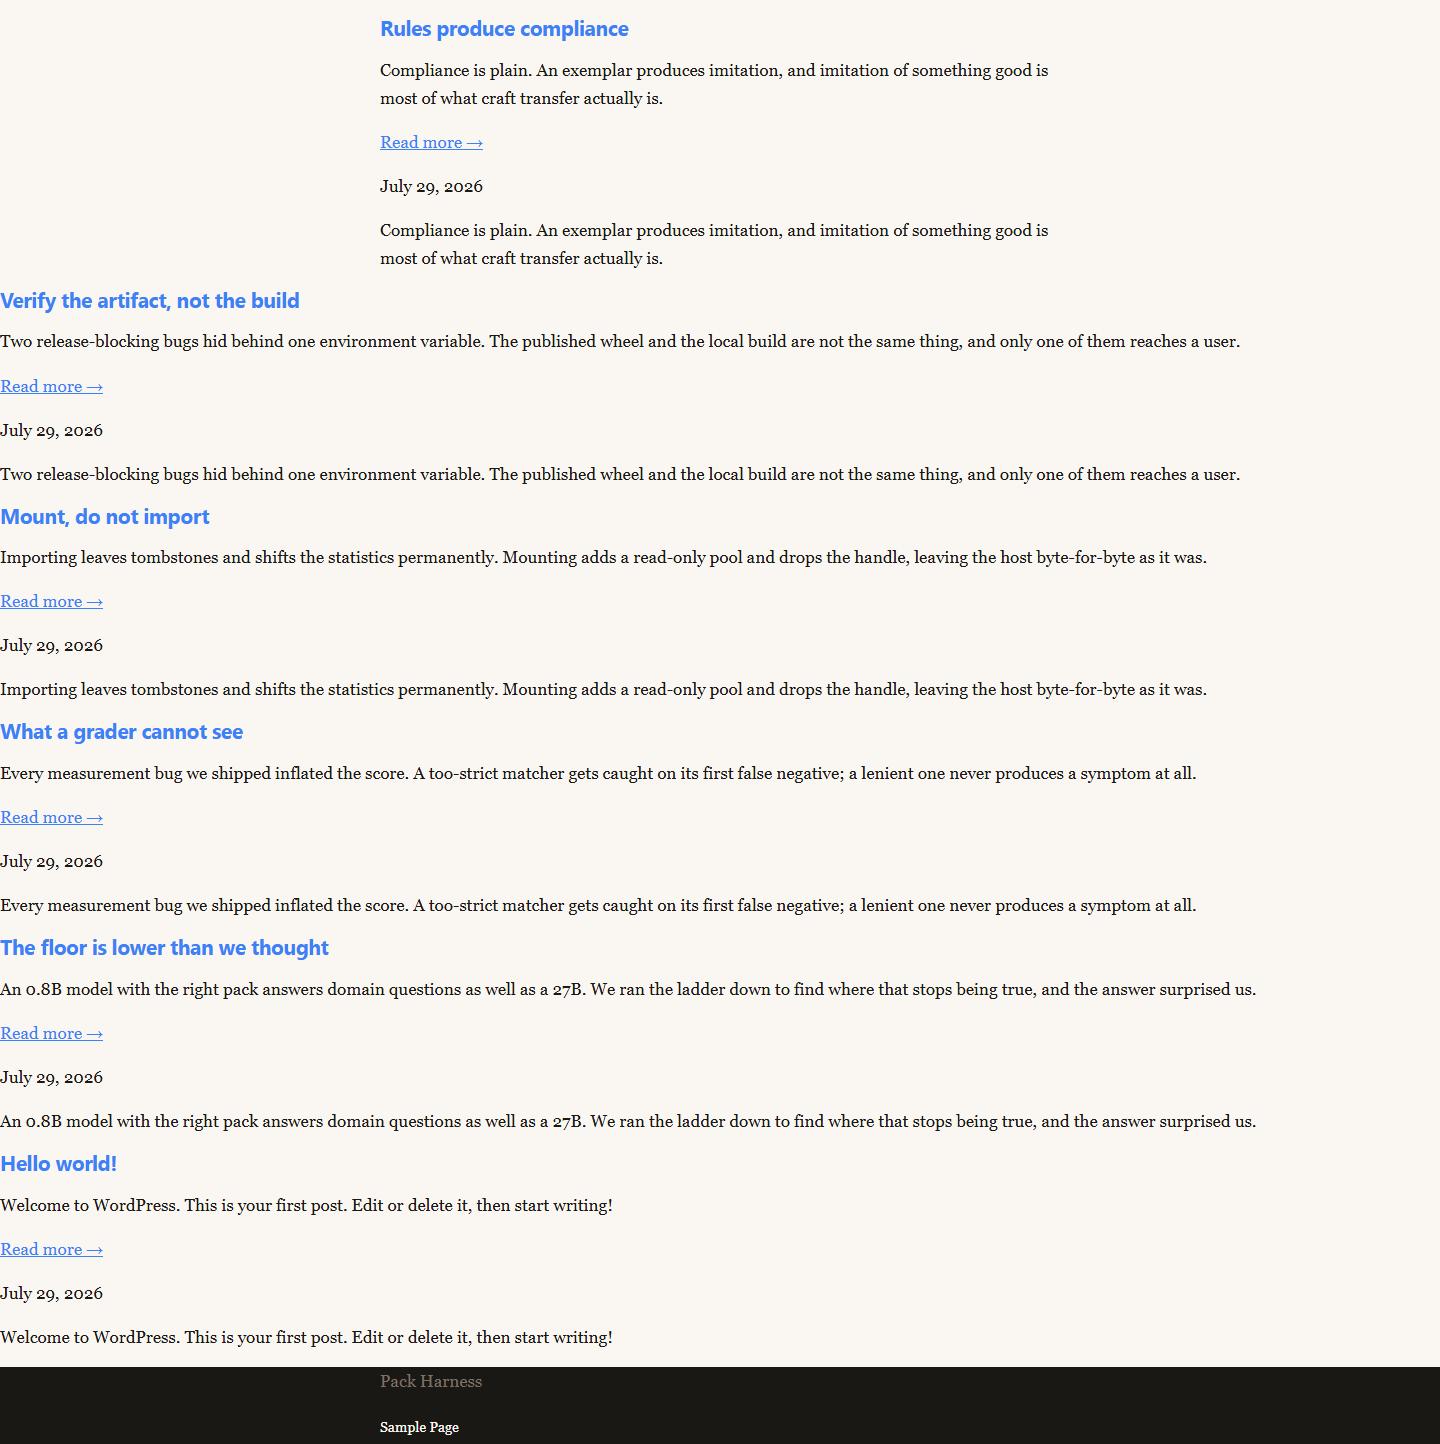
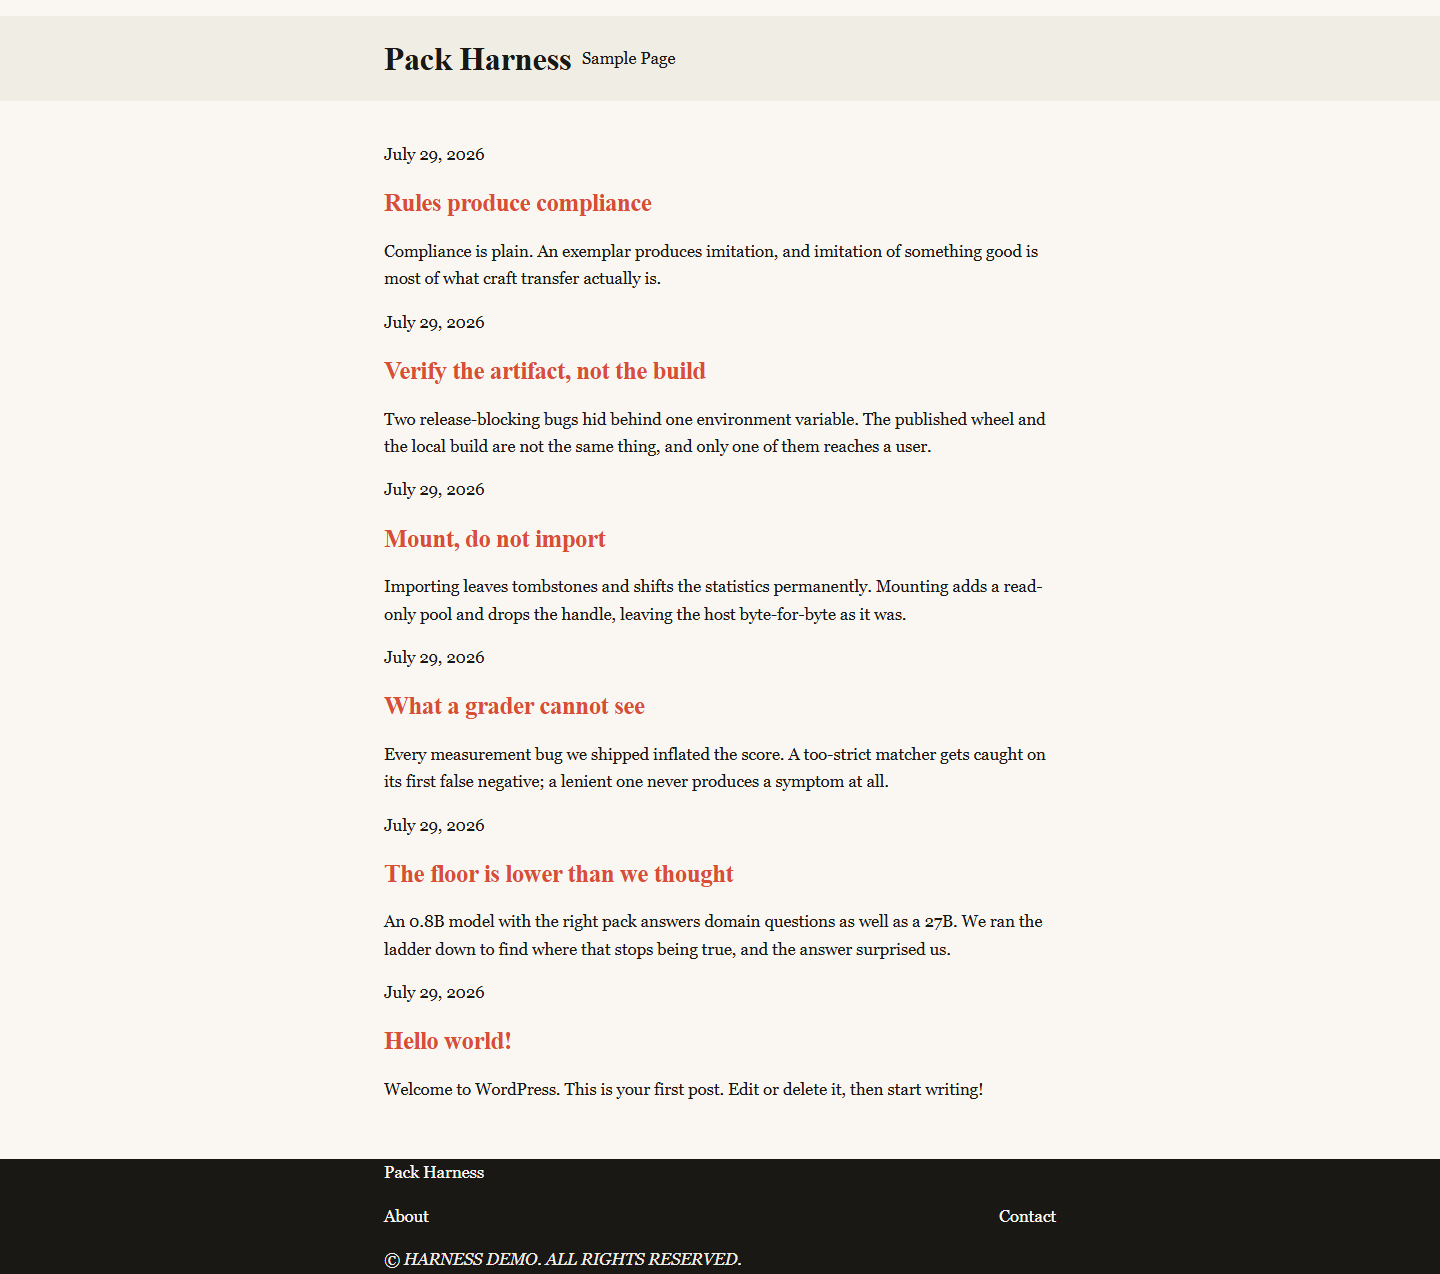
packs: the design-system layer, and the 9B's first composed page
Pranab's directive: stunning examples of EVERYTHING — headers, footers,
sections, text treatments — plus which-goes-with-what, structured so a
small model is forced to recall and follow. That is a design system as a
pack, and the harness enforces the recall: an outline stage plans the
page in short lines (the unit a small model closes correctly), then each
section is generated ALONE with retrieval vocabulary matched to that
section's kind, and assembly is mechanical concatenation in the model's
own declared order. The model owns the composition; the harness owns the
stapler.

New corpus records (77 total): the pairing table (serif display + serif
text + sans interface; warm ground + warm near-black + terracotta;
which band pairs with which padding), a stunning header (identity
stacked left, nav right, hairline below), a stunning footer (dark band,
explicit textColor, two columns, licence line), the four text treatments
(eyebrow, lede, body, quiet metadata), the full section sequence with
the alternation rule, and per-section worked fragments at exactly the
granularity the builder generates.

Result on the 9B: 11/12 plumbing in 4 repairs, and the first genuinely
COMPOSED page of the project — tinted header band, constrained reading
column at a real measure, date-title-excerpt in reading order per entry,
dark footer with identity, navigation and a licence line. The outline
stage caught nothing this run; the section stage produced one dud
[…]

Changed region(s): [[0.0, 0.0, 1.0, 1.0]]

diff --git a/packs/theme-harness/build_iter.py b/packs/theme-harness/build_iter.py
@@ -184,6 +184,60 @@ def defects_theme_json(raw: str) -> list[str]:
     return out
 
 
+OUTLINE_BRIEF = """List the sections of the front page, top to bottom,
+between the header and the footer. One line per section: a short name, a
+colon, then the blocks it contains. 2 to 4 sections. Example:
+
+intro band: heading, tagline paragraph
+recent posts: post date, post title, post excerpt, pagination
+closing band: heading, one button
+
+Output only the lines, nothing else."""
+
+
+def parse_outline(text: str) -> list[tuple[str, str]]:
+    out = []
+    for raw in strip_fences(text).splitlines():
+        line = raw.strip().strip("`").lstrip("-*0123456789. ")
+        if ":" in line and 3 <= len(line) <= 120:
+            name, blocks = line.split(":", 1)
+            out.append((name.strip().lower(), blocks.strip()))
+        if len(out) >= 4:
+            break
+    return out
+
+
+def defects_outline(outline: list[tuple[str, str]]) -> list[str]:
+    """The two composition mistakes measured on real runs, caught before
+    any markup exists: no post loop at all, and site identity inside the
+    repeated section (which renders the site name once per post)."""
+    defects = []
+    joined = " ".join(n + " " + b for n, b in outline)
+    if not any(w in joined for w in ("post", "article", "quer", "blog", "entries")):
+        defects.append("no section lists the recent posts — the front page "
+                       "must show the post query.")
+    for name, blocks in outline:
+        if any(w in name + blocks for w in ("post", "article", "quer"))                 and "site title" in (name + " " + blocks):
+            defects.append(f'section "{name}" puts the site title inside the '
+                           f'post loop — site identity belongs in the header, '
+                           f'or it renders once per post.')
+    return defects
+
+
+def section_queries(name: str, blocks: str, index: int, total: int) -> tuple[str, ...]:
+    """Retrieval vocabulary per section kind — the model's own outline
+    words plus the concrete terms the composition records are named by."""
+    text = f"{name} {blocks}"
+    if any(w in text for w in ("post", "article", "quer", "blog", "entries")):
+        return ("post query section date title excerpt each exactly once",
+                "block ordering inside a post entry reading order",)
+    if index == total - 1 and total > 1:
+        return ("closing band section heading one button full-bleed tint",
+                "section sequence stunning front page rhythm alternation",)
+    return ("intro band section full-bleed tint eyebrow heading constrained",
+            "stunning paragraph eyebrow lede heading text treatments",)
+
+
 def defects_parsed(slug: str, path: str) -> list[str]:
     """Ask WordPress's own parser what is wrong with the markup.
 
@@ -364,7 +418,47 @@ def main() -> int:
     # ── 3. markup, written against the theme.json that actually exists ──
     ctx = (f"The theme.json for this theme is already written and is FINAL. "
            f"Use only the preset slugs it defines:\n\n{files['theme.json']}\n\n")
-    for path in [p for p in manifest if p.endswith(".html")]:
+    # ── 3a. the front template is COMPOSED, not written whole ────────
+    # An outline first (short lines — the unit a small model closes
+    # correctly), validated for the two measured composition mistakes,
+    # then ONE SECTION of markup at a time with retrieval vocabulary
+    # matched to that section. Assembly is mechanical concatenation in
+    # the model's own declared order: the model owns the composition,
+    # the harness owns the stapler.
+    main_tpl = next((p for p in manifest if p.startswith("templates/")), None)
+    if main_tpl:
+        raw, _ = ask(ollama, model,
+                     host.reference("composing templates sections in order "
+                                    "band reading column")
+                     + "You are planning the front page for " + SPEC
+                     + "\n\n" + OUTLINE_BRIEF, SYSTEM)
+        outline = parse_outline(raw)
+        for d in defects_outline(outline):
+            print(f"3a outline defect: {d}")
+            raw, _ = ask(ollama, model,
+                         "Your section plan:\n" + raw
+                         + "\n\nProblem: " + d + "\n\n"
+                         + OUTLINE_BRIEF, SYSTEM)
+            outline = parse_outline(raw)
+        print("3a outline: " + "; ".join(n for n, _ in outline))
+
+        pieces = ['<!-- wp:template-part {"slug":"header","tagName":"header"} /-->']
+        for i, (name, blocks) in enumerate(outline):
+            frag, _ = ask(
+                ollama, model,
+                host.reference(*section_queries(name, blocks, i, len(outline)))
+                + ctx
+                + f'Write ONLY the block markup for one section of the front '
+                f'page: "{name}" containing {blocks}. One wp:group with its '
+                f'own background and spacing, 8-20 lines. No explanation, no '
+                f'code fences, no header or footer — just this section.',
+                SYSTEM)
+            pieces.append(strip_fences(frag))
+            print(f"3b section '{name}': {len(strip_fences(frag).splitlines())} lines")
+        pieces.append('<!-- wp:template-part {"slug":"footer","tagName":"footer"} /-->')
+        files[main_tpl] = "\n\n".join(pieces) + "\n"
+
+    for path in [p for p in manifest if p.endswith(".html") and p != main_tpl]:
         body = gen(path, ctx)
         for attempt in range(args.rounds + 1):
             defects = defects_markup(path, body, manifest, files["theme.json"])

diff --git a/packs/theme-harness/run.py b/packs/theme-harness/run.py
@@ -129,11 +129,13 @@ FILE_QUERIES = {
                    "wp:query post-template post-title post-excerpt "
                    "template-part header footer block markup"),
     "parts/header.html": (
-                   "header template part site title tagline navigation flex "
-                   "group justifyContent space-between",),
+                   "stunning header identity stacked left navigation right "
+                   "hairline site title tagline",
+                   "which goes with what pairing table fonts colours",),
     "parts/footer.html": (
-                   "footer dark band backgroundColor contrast textColor base "
-                   "elements link colour legible",),
+                   "stunning footer dark band light text two columns licence "
+                   "textColor base",
+                   "which goes with what pairing table fonts colours",),
     "functions.php": (
                    "functions.php enqueue get_stylesheet_uri wp_get_theme "
                    "version block theme style.css not loaded automatically",),

diff --git a/packs/wordpress-theme/corpus.md b/packs/wordpress-theme/corpus.md
@@ -947,3 +947,222 @@ placeholder however good it looks in use. `readme.txt` carries the licence
 attributions the directory requires for every bundled asset, and fonts in
 particular must be GPL-compatible and served from the theme rather than a
 CDN — which is both a directory rejection and a GDPR exposure.
+
+## Composing templates/index.html: sections in order, one band at a time
+
+A front page is composed, not accumulated. The order that reads as
+designed: a full-bleed intro band on the tint colour, then a constrained
+reading column holding the post query, then a closing band, with header
+and footer as template parts outside all of it. Each section is one
+`wp:group` with its own background and vertical padding from the spacing
+scale. Compose the page as that list of sections first, then write each
+section alone — a section is 8 to 15 lines of block markup, and small
+units stay correct where whole files drift.
+
+## The intro band section: full-bleed tint with an eyebrow and heading
+
+The opening section of a front page. `align: full` so the background
+reaches the viewport edges, `layout constrained` so the text inside still
+obeys contentSize, vertical padding from the spacing presets — never a
+fixed rem.
+
+```html
+<!-- wp:group {"align":"full","backgroundColor":"tint","style":{"spacing":{"padding":{"top":"var:preset|spacing|60","bottom":"var:preset|spacing|60"}}},"layout":{"type":"constrained"}} -->
+<div class="wp-block-group alignfull has-tint-background-color has-background" style="padding-top:var(--wp--preset--spacing--60);padding-bottom:var(--wp--preset--spacing--60)">
+	<!-- wp:heading {"level":1} -->
+	<h1 class="wp-block-heading">Notes from the measurement floor</h1>
+	<!-- /wp:heading -->
+	<!-- wp:paragraph {"textColor":"secondary","fontSize":"large"} -->
+	<p class="has-secondary-color has-text-color has-large-font-size">Short pieces on packs and small machines.</p>
+	<!-- /wp:paragraph -->
+</div>
+<!-- /wp:group -->
+```
+
+Getting `align: full` and `layout constrained` the wrong way round
+produces either a band that will not span or text that runs the full
+width of a monitor.
+
+## The post query section: date, title, excerpt — each exactly once
+
+The reading column of a blog front page. The `wp:query` sits inside a
+constrained group; `wp:post-template` holds ONLY what repeats per post:
+date, then title, then excerpt, in that reading order. Choose excerpt OR
+post-content, never both — both renders every entry twice, first the
+summary and then the same text again, which reads as a broken page. The
+date comes before the title as quiet metadata, not after the excerpt
+where it reads as a caption for the wrong entry.
+
+```html
+<!-- wp:group {"style":{"spacing":{"padding":{"top":"var:preset|spacing|60","bottom":"var:preset|spacing|60"}}},"layout":{"type":"constrained"}} -->
+<div class="wp-block-group" style="padding-top:var(--wp--preset--spacing--60);padding-bottom:var(--wp--preset--spacing--60)">
+	<!-- wp:query {"queryId":1,"query":{"perPage":6,"postType":"post","order":"desc","orderBy":"date","inherit":true}} -->
+	<div class="wp-block-query">
+		<!-- wp:post-template {"style":{"spacing":{"blockGap":"var:preset|spacing|50"}}} -->
+			<!-- wp:post-date {"format":"j M Y"} /-->
+			<!-- wp:post-title {"level":2,"isLink":true} /-->
+			<!-- wp:post-excerpt {"excerptLength":40} /-->
+		<!-- /wp:post-template -->
+		<!-- wp:query-pagination -->
+			<!-- wp:query-pagination-previous /-->
+			<!-- wp:query-pagination-next /-->
+		<!-- /wp:query-pagination -->
+	</div>
+	<!-- /wp:query -->
+</div>
+<!-- /wp:group -->
+```
+
+Site identity never goes inside `wp:post-template` — a site title there
+renders once per post, six copies of the site name where six post titles
+should be.
+
+## The closing band section: heading, one line, one button
+
+A front page ends with a deliberate full-bleed band rather than trailing
+off after the last post. Same shape as the intro band — tint background,
+spacing presets — holding a heading, one sentence, and at most one
+button. This is what makes the page read as composed rather than as a
+list that ran out.
+
+```html
+<!-- wp:group {"align":"full","backgroundColor":"tint","style":{"spacing":{"padding":{"top":"var:preset|spacing|60","bottom":"var:preset|spacing|60"}}},"layout":{"type":"constrained"}} -->
+<div class="wp-block-group alignfull has-tint-background-color has-background" style="padding-top:var(--wp--preset--spacing--60);padding-bottom:var(--wp--preset--spacing--60)">
+	<!-- wp:heading {"level":2} -->
+	<h2 class="wp-block-heading">Measure it, or it did not happen</h2>
+	<!-- /wp:heading -->
+	<!-- wp:buttons -->
+	<div class="wp-block-buttons"><!-- wp:button -->
+	<div class="wp-block-button"><a class="wp-block-button__link wp-element-button" href="#top">Read the archive</a></div>
+	<!-- /wp:button --></div>
+	<!-- /wp:buttons -->
+</div>
+<!-- /wp:group -->
+```
+
+## Block ordering inside a post entry is a reading order
+
+Within `wp:post-template` the order is the order a reader scans: date
+(small, uppercase, quiet), then title (the largest thing in the entry),
+then excerpt, then an optional read-more. Date after the excerpt reads as
+a caption for the following entry. Featured image, when used, goes first
+or beside — never between title and excerpt, where it severs the
+sentence the title started.
+
+## Which goes with what: the pairing table for a warm editorial theme
+
+The combinations that hold together, stated as pairs so nothing is chosen
+alone. Serif display (Iowan Old Style, Palatino, Georgia) pairs with a
+serif text face (Charter, Georgia) and a sans interface face (Inter,
+Segoe UI) for dates and labels — three roles, never one font everywhere.
+A warm off-white ground (#faf7f2 family) pairs with a warm near-black
+(#171310 family), a terracotta or rust primary (#8c3a1e to #d94e36), a
+muted green-grey or brown-grey secondary, and a deeper cream tint
+(#eee7dc family) for bands. Tint bands pair with generous vertical
+padding (spacing 60) and constrained text; the dark footer pairs with the
+base colour for its text and the tint colour for its links. Uppercase
+labels pair with the sans face, small size, and 0.08-0.1em tracking.
+Display headings pair with tight leading (1.05-1.12) and negative
+tracking (-0.02em). Body copy pairs with 1.6-1.7 leading at a 34-42rem
+measure. Break any of these pairs and the page reads as assembled from
+parts; keep them and it reads as designed.
+
+## A stunning header: identity stacked left, navigation right, hairline below
+
+The header that makes an editorial site read as considered. Site title
+and an italic tagline stacked tight on the left, navigation in the sans
+face on the right, a hairline border in the tint colour underneath — not
+a heavy bar, not a centered logo.
+
+```html
+<!-- wp:group {"tagName":"header","align":"full","style":{"spacing":{"padding":{"top":"var:preset|spacing|40","bottom":"var:preset|spacing|40"}},"border":{"bottom":{"color":"var:preset|color|tint","width":"1px"}}},"layout":{"type":"constrained","wideSize":"72rem"}} -->
+<header class="wp-block-group alignfull" style="border-bottom-color:var(--wp--preset--color--tint);border-bottom-width:1px;padding-top:var(--wp--preset--spacing--40);padding-bottom:var(--wp--preset--spacing--40)">
+	<!-- wp:group {"layout":{"type":"flex","justifyContent":"space-between","flexWrap":"wrap"}} -->
+	<div class="wp-block-group">
+		<!-- wp:group {"style":{"spacing":{"blockGap":"0.1rem"}},"layout":{"type":"flex","orientation":"vertical"}} -->
+		<div class="wp-block-group">
+			<!-- wp:site-title {"level":0} /-->
+			<!-- wp:site-tagline {"style":{"typography":{"fontStyle":"italic"}},"fontSize":"small","textColor":"secondary"} /-->
+		</div>
+		<!-- /wp:group -->
+		<!-- wp:navigation {"overlayMenu":"mobile","style":{"typography":{"fontSize":"var:preset|font-size|small"}}} -->
+			<!-- wp:page-list /-->
+		<!-- /wp:navigation -->
+	</div>
+	<!-- /wp:group -->
+</header>
+<!-- /wp:group -->
+```
+
+The tagline is italic, small, and in the secondary colour — quiet. The
+navigation is small sans, never large, never bold.
+
+## A stunning footer: dark band, light text, two columns, licence line
+
+The footer that closes a page instead of trailing off. Contrast
+background with `textColor: base` set explicitly — dark bands with unset
+text colour render invisible text — identity on the left, an
+uppercase-label navigation column on the right, and a small licence line
+at the bottom after generous spacing.
+
+```html
+<!-- wp:group {"tagName":"footer","align":"full","backgroundColor":"contrast","textColor":"base","style":{"spacing":{"padding":{"top":"var:preset|spacing|60","bottom":"var:preset|spacing|60"}},"elements":{"link":{"color":{"text":"var:preset|color|tint"}}}},"layout":{"type":"constrained","wideSize":"72rem"}} -->
+<footer class="wp-block-group alignfull has-base-color has-contrast-background-color has-text-color has-background has-link-color" style="padding-top:var(--wp--preset--spacing--60);padding-bottom:var(--wp--preset--spacing--60)">
+	<!-- wp:group {"layout":{"type":"flex","justifyContent":"space-between","verticalAlignment":"top","flexWrap":"wrap"}} -->
+	<div class="wp-block-group">
+		<!-- wp:group {"style":{"spacing":{"blockGap":"var:preset|spacing|20"}},"layout":{"type":"flex","orientation":"vertical"}} -->
+		<div class="wp-block-group">
+			<!-- wp:site-title {"level":0,"textColor":"base"} /-->
+			<!-- wp:site-tagline {"fontSize":"small","textColor":"tint","style":{"typography":{"fontStyle":"italic"}}} /-->
+		</div>
+		<!-- /wp:group -->
+		<!-- wp:navigation {"overlayMenu":"never","textColor":"base","style":{"typography":{"fontSize":"var:preset|font-size|small"}}} -->
+			<!-- wp:page-list /-->
+		<!-- /wp:navigation -->
+	</div>
+	<!-- /wp:group -->
+	<!-- wp:paragraph {"fontSize":"small","textColor":"tint","style":{"spacing":{"margin":{"top":"var:preset|spacing|50"}}}} -->
+	<p class="has-tint-color has-text-color has-small-font-size" style="margin-top:var(--wp--preset--spacing--50)">Licensed GPL-2.0-or-later.</p>
+	<!-- /wp:paragraph -->
+</footer>
+<!-- /wp:group -->
+```
+
+## Stunning paragraph and text treatments: the four kinds a page needs
+
+Four text treatments cover an editorial page, each one deliberate. The
+eyebrow — a short uppercase sans label above a heading, small size,
+letter-spacing 0.1em, secondary colour. The lede — the first paragraph
+after a heading, one size up (large), looser colour (secondary), line
+height 1.5. Body copy — medium size at 1.6-1.7 leading, never wider than
+the reading measure. The quiet metadata line — dates and read times, small
+sans, uppercase, tabular numerals.
+
+```html
+<!-- wp:paragraph {"className":"eyebrow","fontSize":"small","textColor":"secondary","style":{"typography":{"textTransform":"uppercase","letterSpacing":"0.1em"}}} -->
+<p class="eyebrow has-secondary-color has-text-color has-small-font-size" style="letter-spacing:0.1em;text-transform:uppercase">The Journal</p>
+<!-- /wp:paragraph -->
+
+<!-- wp:heading {"level":1} -->
+<h1 class="wp-block-heading">Notes from the measurement floor</h1>
+<!-- /wp:heading -->
+
+<!-- wp:paragraph {"fontSize":"large","textColor":"secondary","style":{"typography":{"lineHeight":"1.5"}}} -->
+<p class="has-secondary-color has-text-color has-large-font-size" style="line-height:1.5">Short pieces on packs, small models, and the difference between a number and a measurement.</p>
+<!-- /wp:paragraph -->
+```
+
+An eyebrow always sits directly above its heading with almost no gap, and
+the lede directly below it — the three are one unit, never separated by
+other blocks.
+
+## The section sequence of a stunning front page
+
+The full-page rhythm, as a sequence: header part → tint intro band
+(eyebrow + h1 + lede) → constrained posts column (date, title, excerpt
+per entry, hairline rules between) → tint closing band (h2 + one line +
+one button) → dark footer part. Two tint bands frame one reading column;
+the dark footer anchors the bottom. Never two adjacent sections with the
+same background — alternation is the rhythm. Never more than one button
+per band. The posts column is the only section that repeats content; every
+other section says one thing.
